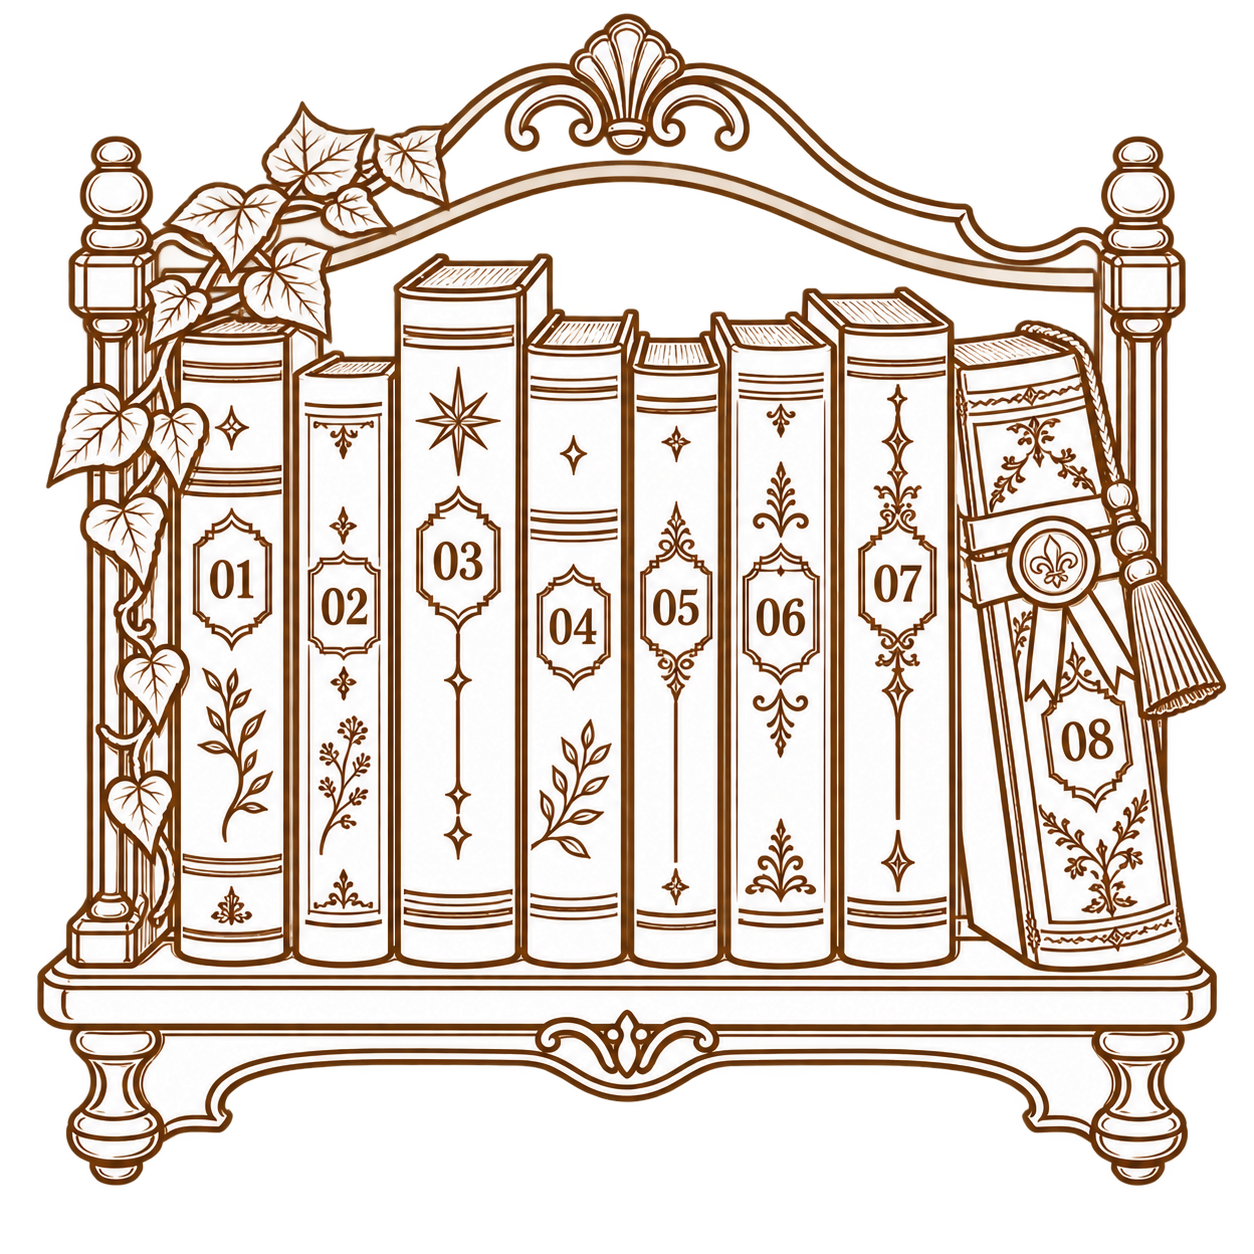
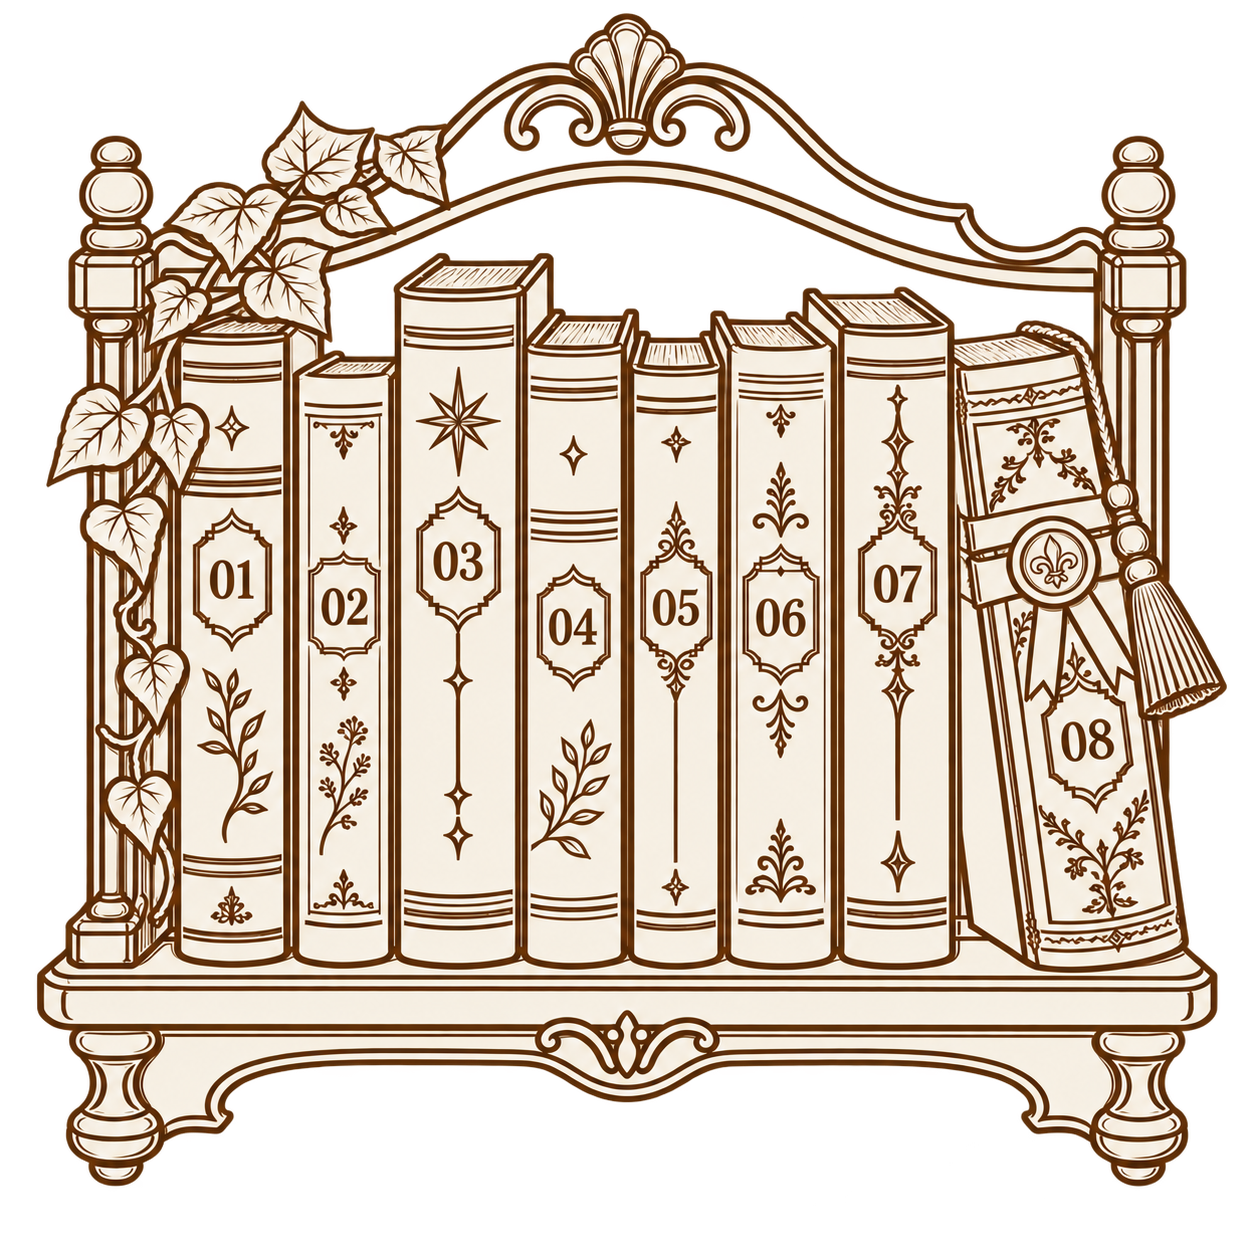
,

diff --git a/src/pages/Contents.css b/src/pages/Contents.css
@@ -37,7 +37,7 @@
   overflow-wrap: break-word;
 }
 
-.contents-left p>span{
+.contents-left p>span {
   font-size: 14px;
   color: #8c683c;
 }
@@ -134,7 +134,7 @@
 ========================= */
 
 .contents_imgbox {
-  width: 52%;
+  width: 68%;
   flex-shrink: 0;
 
   margin-top: auto;
@@ -170,7 +170,7 @@
 
 
   .contents_imgbox {
-    width: 56%;
+    width: 60%;
   }
 
 }
@@ -206,8 +206,14 @@
   }
 
 }
+
 /* 긴 작업명을 좁은 화면에서도 읽기 쉽게 배치 */
-.contents-list button > span:last-child {
+.contents-list button>span:last-child {
   min-width: 0;
   overflow-wrap: anywhere;
+
+  font-family: 'DM Serif Display','Noto Sans KR', sans-serif;
+  font-weight: 400;
+  letter-spacing: 0.04em;
+
 }
